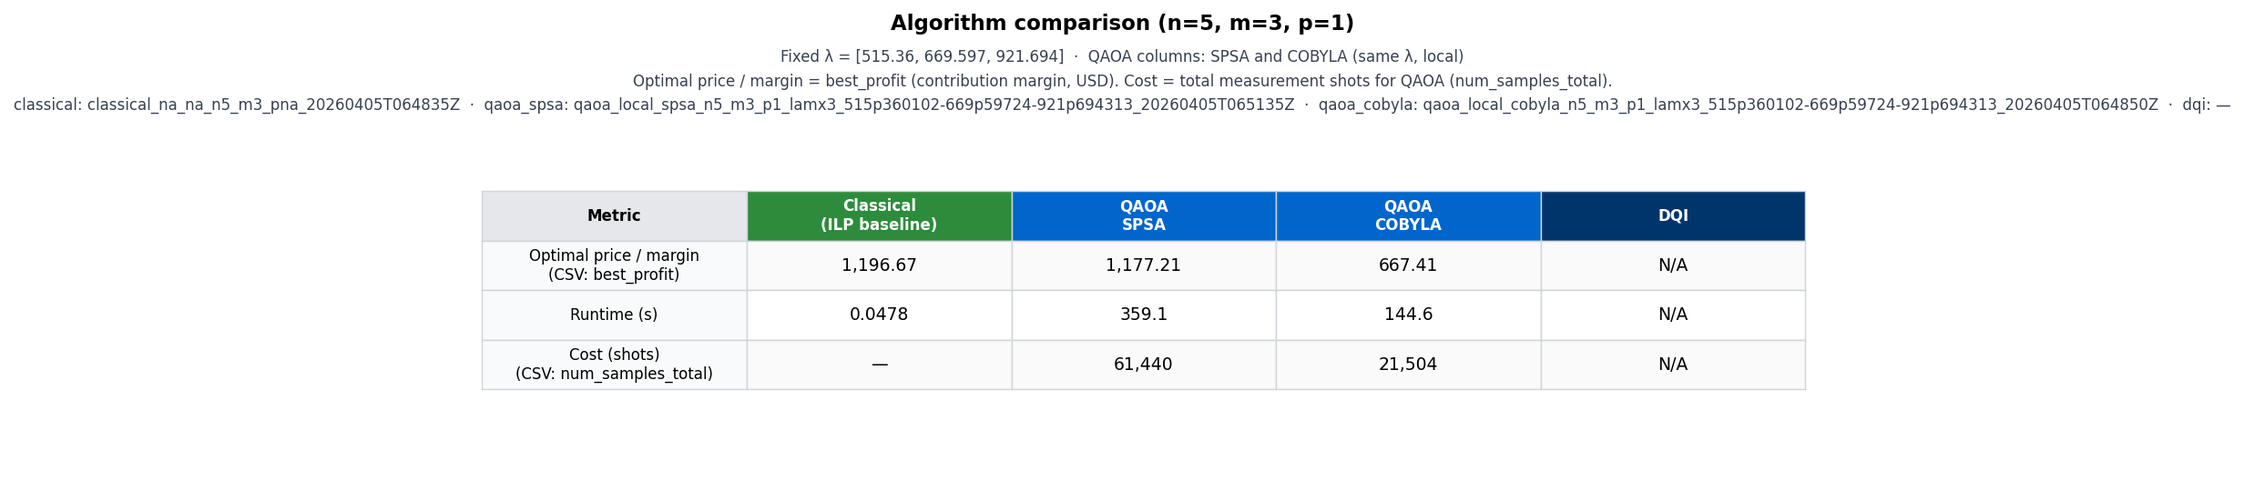
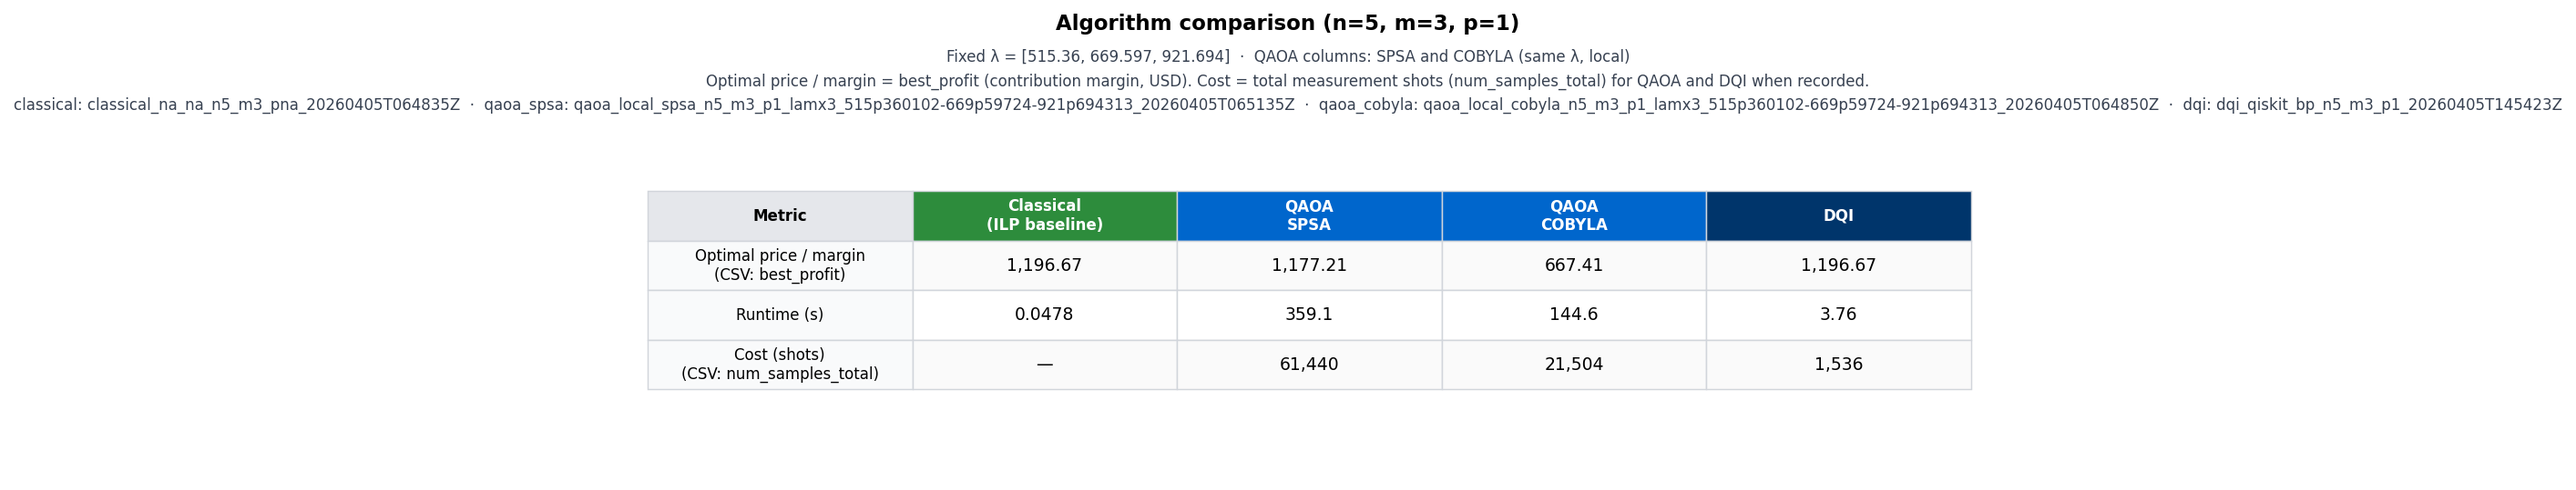
Add Cayman Qiskit BP DQI row and refresh algorithm comparison table.
Append dqi (qiskit-bp) metrics to run_summaries for n=5,m=3,p=1 with matching λ;
script run_cayman_dqi_for_algorithm_comparison.py runs per-package BP-decoder DQI.
Show DQI shot counts in plot_algorithm_comparison_table; list qiskit deps in cayman.

Made-with: Cursor

diff --git a/SOLUTIONS/run_cayman_dqi_for_algorithm_comparison.py b/SOLUTIONS/run_cayman_dqi_for_algorithm_comparison.py
@@ -1,0 +1,273 @@
+#!/usr/bin/env python3
+"""Run Cayman DQI (Qiskit BP-decoder path) for a Travelers slice and append ``run_summaries.csv``.
+
+For each package block (m = 0..M-1), builds ``build_qubo_block_for_package`` with the same
+per-package λ as the QAOA comparison rows, runs :func:`run_dqi_with_details` with
+``use_bp_decoder=True`` and ``execution='local'`` (Qiskit Aer), then stitches coverage
+bits into an N×M matrix and evaluates total contribution margin with the LTM formula.
+
+After appending one ``algorithm=dqi`` row (with λ matching ``plot_algorithm_comparison_table``
+presets), regenerate ``algorithm_comparison_n5_m3_p1.png`` unless ``--no-plot``.
+
+Requires: ``pip install qiskit qiskit-aer`` (plus cayman deps: numpy, scipy, pulp).
+
+Example::
+
+    python SOLUTIONS/run_cayman_dqi_for_algorithm_comparison.py --n 5 --m 3 --p 1
+"""
+
+from __future__ import annotations
+
+import argparse
+import csv
+import re
+import sys
+import time
+from datetime import datetime, timezone
+from pathlib import Path
+
+import numpy as np
+
+REPO_ROOT = Path(__file__).resolve().parents[1]
+CAYMAN_ROOT = REPO_ROOT / "subprojects" / "cayman"
+TRAVELERS_DATA = REPO_ROOT / "subprojects" / "will" / "Travelers" / "docs" / "data" / "YQH26_data"
+SUMMARIES_CSV = REPO_ROOT / "SOLUTIONS" / "HEURISTICS" / "run_summaries.csv"
+SOLUTIONS_DIR = REPO_ROOT / "SOLUTIONS" / "HEURISTICS" / "solutions"
+HISTORIES_DIR = REPO_ROOT / "SOLUTIONS" / "HEURISTICS" / "histories"
+PLOTS_DIR = REPO_ROOT / "SOLUTIONS" / "HEURISTICS" / "plots"
+
+DEFAULT_LAMBDA_BY_N: dict[int, tuple[float, ...]] = {
+    5: (515.3601024000001, 669.5972399999999, 921.6943125),
+    7: (515.3601024000001, 669.5972399999999, 921.6943125),
+    10: (515.3601024000001, 669.5972399999999, 921.6943125),
+}
+
+
+def _ensure_cayman_path() -> None:
+    s = str(CAYMAN_ROOT)
+    if s not in sys.path:
+        sys.path.insert(0, s)
+
+
+def total_margin_usd(problem, x_nm: np.ndarray) -> float:
+    N, M = problem.N, problem.M
+    beta = problem.price_sensitivity_beta
+    total = 0.0
+    for m in range(M):
+        delta_m = problem.get_discount(m)
+        for i in range(N):
+            if float(x_nm[i, m]) > 0.5:
+                cov = problem.coverages[i]
+                alpha_im = problem.get_affinity(i, m)
+                total += (
+                    cov.price
+                    * cov.contribution_margin_pct
+                    * (1 - delta_m)
+                    * cov.take_rate
+                    * alpha_im
+                    * (1 + beta * delta_m)
+                )
+    return float(total)
+
+
+def _lambda_csv_tuple(t: tuple[float, ...]) -> str:
+    inner = ", ".join(repr(x) for x in t)
+    return f"[{inner}]"
+
+
+def _strip_prior_qiskit_dqi_rows(rows: list[dict[str, str]], *, n: int, m: int, p: int) -> list[dict[str, str]]:
+    """Remove earlier cayman Qiskit BP rows for the same (n,m,p) so re-runs stay idempotent."""
+    out: list[dict[str, str]] = []
+    for r in rows:
+        if (r.get("algorithm") or "").strip() != "dqi":
+            out.append(r)
+            continue
+        if (r.get("optimizer") or "").strip().lower() != "qiskit-bp":
+            out.append(r)
+            continue
+        try:
+            ni = int(float(r.get("N_local") or ""))
+            mi = int(float(r.get("M_blocks") or ""))
+            pi = int(float(r.get("p") or ""))
+        except ValueError:
+            out.append(r)
+            continue
+        if ni == n and mi == m and pi == p:
+            continue
+        out.append(r)
+    return out
+
+
+def main() -> None:
+    ap = argparse.ArgumentParser(description=__doc__)
+    ap.add_argument("--n", type=int, default=5)
+    ap.add_argument("--m", type=int, default=3)
+    ap.add_argument("--p", type=int, default=1)
+    ap.add_argument("--shots", type=int, default=512, help="Shots per package block.")
+    ap.add_argument("--seed", type=int, default=0)
+    ap.add_argument("--bp-iterations", type=int, default=1)
+    ap.add_argument("--data-dir", type=Path, default=TRAVELERS_DATA)
+    ap.add_argument("--summaries", type=Path, default=SUMMARIES_CSV)
+    ap.add_argument("--no-plot", action="store_true")
+    ap.add_argument(
+        "--lambda-str",
+        default=None,
+        help="Override λ list string for CSV (default: preset for --n).",
+    )
+    args = ap.parse_args()
+
+    if args.n not in DEFAULT_LAMBDA_BY_N and args.lambda_str is None:
+        raise SystemExit(f"No default λ for n={args.n}; pass --lambda-str.")
+
+    lam_t = (
+        tuple(float(x) for x in re.findall(r"[-+]?(?:\d*\.\d+|\d+)(?:[eE][-+]?\d+)?", args.lambda_str))
+        if args.lambda_str
+        else DEFAULT_LAMBDA_BY_N[args.n]
+    )
+    if len(lam_t) != args.m:
+        raise SystemExit(f"Expected {args.m} λ values for m={args.m}, got {len(lam_t)}.")
+    lam_csv = _lambda_csv_tuple(lam_t)
+
+    _ensure_cayman_path()
+    from src.insurance_model import load_ltm_instance, subsample_problem, solve_ilp
+    from src.qubo_block import build_qubo_block_for_package
+    from src.run_dqi import run_dqi_with_details
+
+    if not args.data_dir.is_dir():
+        raise SystemExit(f"Travelers data dir not found: {args.data_dir}")
+
+    problem = subsample_problem(load_ltm_instance(args.data_dir), args.n, args.m)
+    ilp = solve_ilp(problem)
+    classical_opt = float(ilp["objective"])
+
+    x_mat = np.zeros((problem.N, problem.M), dtype=float)
+    total_rt = 0.0
+    total_shots = 0
+    total_feas = 0
+    max_q = 0
+
+    for pkg in range(problem.M):
+        block = build_qubo_block_for_package(problem, pkg, penalty_weight=lam_t[pkg])
+        max_q = max(max_q, block.n_vars)
+        t0 = time.perf_counter()
+        best_x, _value, meta = run_dqi_with_details(
+            block,
+            args.p,
+            shots=args.shots,
+            seed=args.seed + pkg,
+            statistic="best",
+            mixer="h",
+            execution="local",
+            use_bp_decoder=True,
+            bp_iterations=int(args.bp_iterations),
+            insurance_parity=(problem, pkg),
+            max_qubits=256,
+        )
+        total_rt += time.perf_counter() - t0
+        st = meta.run_result.stats_at_best
+        total_shots += int(st.shots)
+        if st.post_selection_rate is not None:
+            total_feas += int(round(float(st.shots) * float(st.post_selection_rate)))
+        cov = int(block.n_coverage)
+        for i in range(cov):
+            x_mat[i, pkg] = float(best_x[i])
+
+    best_profit = total_margin_usd(problem, x_mat)
+    ts = datetime.now(timezone.utc).strftime("%Y%m%dT%H%M%SZ")
+    run_id = f"dqi_qiskit_bp_n{args.n}_m{args.m}_p{args.p}_{ts}"
+
+    SOLUTIONS_DIR.mkdir(parents=True, exist_ok=True)
+    HISTORIES_DIR.mkdir(parents=True, exist_ok=True)
+    sol_path = SOLUTIONS_DIR / f"{run_id}_solution.csv"
+    hist_path = HISTORIES_DIR / f"{run_id}_history.csv"
+
+    with sol_path.open("w", newline="", encoding="utf-8") as f:
+        w = csv.writer(f)
+        w.writerow(["coverage_index", "package_index", "x"])
+        for m in range(problem.M):
+            for i in range(problem.N):
+                w.writerow([i, m, int(x_mat[i, m] > 0.5)])
+    with hist_path.open("w", newline="", encoding="utf-8") as f:
+        w = csv.writer(f)
+        w.writerow(["run_id", "note"])
+        w.writerow([run_id, "cayman DQI Qiskit BP path; one stitched matrix; see run_summaries notes"])
+
+    notes = (
+        "cayman=subprojects/cayman; execution=Qiskit Aer BP-decoder (use_bp_decoder); "
+        f"per-package λ match QAOA row; shots_per_block={args.shots}; "
+        f"classical_opt_profit={classical_opt:.12g} from solve_ilp on same subsample"
+    )
+    new_row = {
+        "run_id": run_id,
+        "algorithm": "dqi",
+        "optimizer": "qiskit-bp",
+        "seed": str(args.seed),
+        "N_local": str(args.n),
+        "M_blocks": str(args.m),
+        "n_total": str(args.n * args.m),
+        "p": str(args.p),
+        "lambda": lam_csv,
+        "runtime_sec": str(total_rt),
+        "best_profit": str(best_profit),
+        "classical_opt_profit": str(classical_opt),
+        "num_samples_total": str(total_shots),
+        "num_samples_feasible": str(total_feas),
+        "num_samples_postselected": "",
+        "num_objective_evals": str(args.m),
+        "num_qubits": str(max_q),
+        "circuit_depth": "",
+        "two_qubit_gate_count": "",
+        "solution_path": str(sol_path.relative_to(REPO_ROOT)),
+        "history_path": str(hist_path.relative_to(REPO_ROOT)),
+        "notes": notes,
+    }
+
+    with args.summaries.open(newline="", encoding="utf-8") as f:
+        reader = csv.DictReader(f)
+        fieldnames = reader.fieldnames
+        if not fieldnames:
+            raise SystemExit("run_summaries.csv missing header")
+        rows = list(reader)
+
+    rows = _strip_prior_qiskit_dqi_rows(rows, n=args.n, m=args.m, p=args.p)
+    rows.append(new_row)
+
+    with args.summaries.open("w", newline="", encoding="utf-8") as f:
+        w = csv.DictWriter(f, fieldnames=fieldnames, lineterminator="\n")
+        w.writeheader()
+        w.writerows(rows)
+
+    print(f"Appended {run_id} to {args.summaries}")
+    print(f"  best_profit={best_profit:.4f}  classical_opt={classical_opt:.4f}  runtime={total_rt:.3f}s  shots={total_shots}")
+
+    if not args.no_plot:
+        import subprocess
+
+        plot_script = REPO_ROOT / "SOLUTIONS" / "plot_algorithm_comparison_table.py"
+        out_name = f"algorithm_comparison_n{args.n}_m{args.m}_p{args.p}.png"
+        subprocess.run(
+            [
+                sys.executable,
+                str(plot_script),
+                "--n",
+                str(args.n),
+                "--m",
+                str(args.m),
+                "--p",
+                str(args.p),
+                "--summaries",
+                str(args.summaries),
+                "--out-dir",
+                str(PLOTS_DIR),
+                "--output-name",
+                out_name,
+                "--csv-out",
+                str(PLOTS_DIR / out_name.replace(".png", ".csv")),
+            ],
+            check=True,
+        )
+        print(f"Regenerated {PLOTS_DIR / out_name}")
+
+
+if __name__ == "__main__":
+    main()

diff --git a/SOLUTIONS/plot_algorithm_comparison_table.py b/SOLUTIONS/plot_algorithm_comparison_table.py
@@ -173,7 +173,7 @@ def row_values(r: dict[str, str] | None) -> tuple[str, str, str]:
     rt = _f(r, "runtime_sec")
     shots = _i(r, "num_samples_total")
     algo = (r.get("algorithm") or "").strip()
-    cost = fmt_shots(shots) if algo == "qaoa" and shots is not None else "—"
+    cost = fmt_shots(shots) if algo in ("qaoa", "dqi") and shots is not None else "—"
     return (fmt_profit(profit), fmt_runtime_sec(rt), cost)
 
 
@@ -349,7 +349,7 @@ def main() -> None:
     title_lines = [
         f"Algorithm comparison (n={args.n}, m={args.m}, p={args.p})",
         f"Fixed λ = {lambda_display(lambda_target)}  ·  QAOA columns: SPSA and COBYLA (same λ, local)",
-        "Optimal price / margin = best_profit (contribution margin, USD). Cost = total measurement shots for QAOA (num_samples_total).",
+        "Optimal price / margin = best_profit (contribution margin, USD). Cost = total measurement shots (num_samples_total) for QAOA and DQI when recorded.",
         f"classical: {meta['classical_run_id'] or '—'}  ·  qaoa_spsa: {meta['qaoa_spsa_run_id'] or '—'}  ·  qaoa_cobyla: {meta['qaoa_cobyla_run_id'] or '—'}  ·  dqi: {meta['dqi_run_id'] or '—'}",
     ]
 
